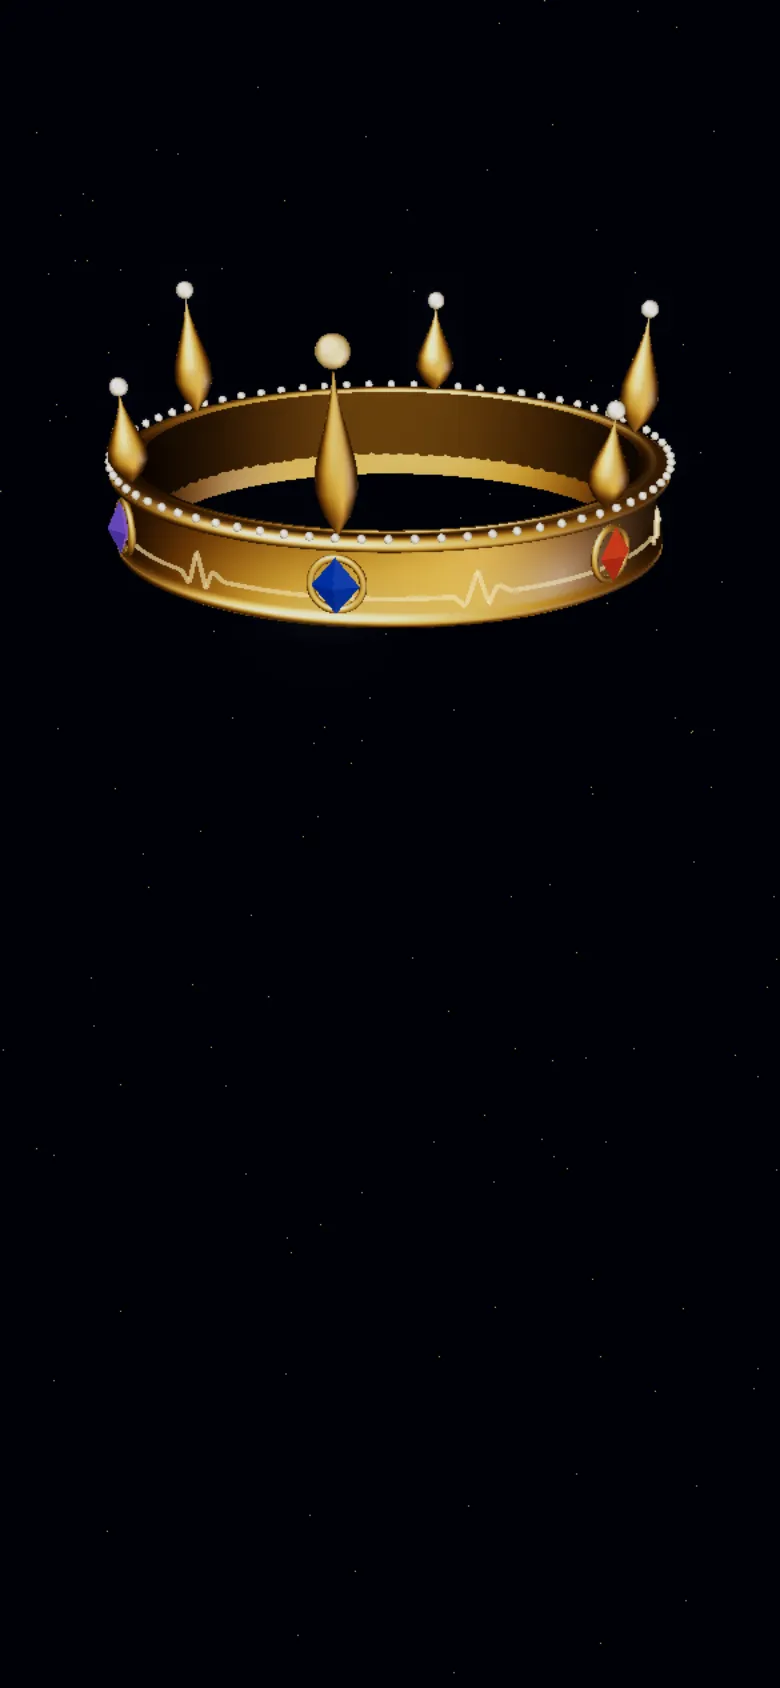
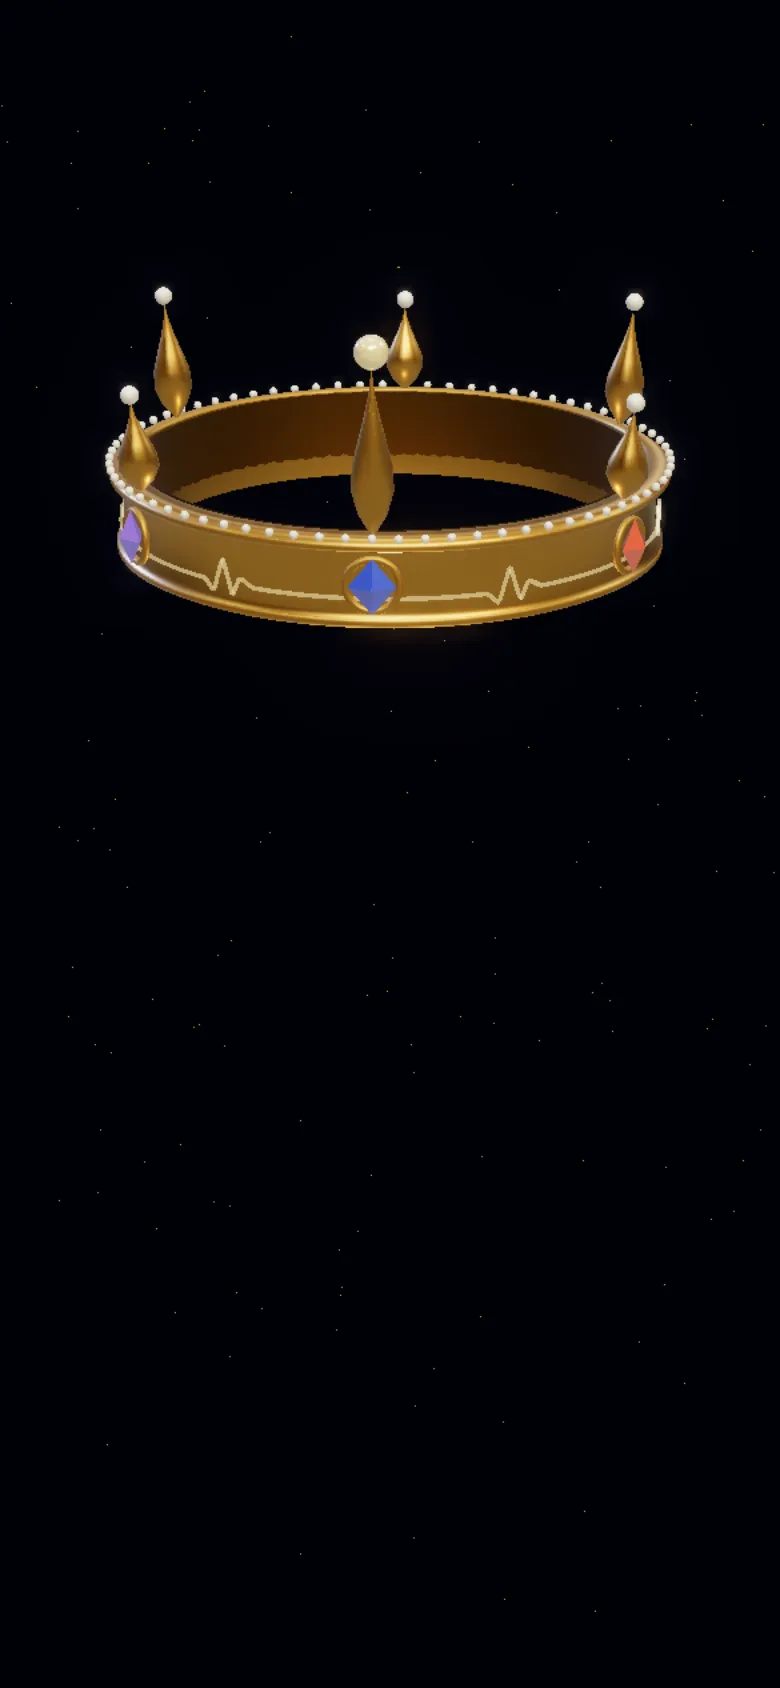
Crown story: original gold restored where graphics can be prepared in the background; every program prepared before the first frame; placeholders re-shot

Changed region(s): [[0.1231, 0.154, 0.8615, 0.4005]]

diff --git a/site/assets/js/crown-scene.js b/site/assets/js/crown-scene.js
@@ -2,6 +2,7 @@
    allows it, so preparing the graphics never freezes the page; otherwise on the page itself (crown-3d.js).
    It knows nothing about the page: each frame it is given the story state and returns where the jewel name tags go. */
 import * as THREE from '../vendor/three/three.module.min.js';
+import { RoomEnvironment } from '../vendor/three/addons/RoomEnvironment.js';
 import { MeshSurfaceSampler } from '../vendor/three/addons/MeshSurfaceSampler.js';
 import { EffectComposer } from '../vendor/three/addons/EffectComposer.js';
 import { RenderPass } from '../vendor/three/addons/RenderPass.js';
@@ -47,9 +48,12 @@ function sampleFigure(c, n) {
   return out;
 }
 
-export function buildScene(canvas, { small, narrow, dpr }) {
+export function buildScene(canvas, { small, narrow, dpr, hq: forceHq }) {
   const renderer = new THREE.WebGLRenderer({ canvas, antialias: true, powerPreference: 'high-performance' });
   renderer.setPixelRatio(Math.min(dpr || 1, small ? 1.5 : 2));
+  // Full-quality gold (live reflections) only where the graphics card can prepare its programs in the background;
+  // elsewhere the painted-sphere gold, which is cheap to prepare. Either way nothing freezes.
+  const hq = forceHq !== undefined ? forceHq : renderer.extensions.has('KHR_parallel_shader_compile');
   renderer.toneMapping = THREE.ACESFilmicToneMapping; renderer.toneMappingExposure = 0.92;
   renderer.outputColorSpace = THREE.SRGBColorSpace;
 
@@ -79,9 +83,16 @@ export function buildScene(canvas, { small, narrow, dpr }) {
   const goldCap = matcap([[0, '#f3cf7a'], [0.45, '#c8922f'], [0.78, '#6d4510'], [1, '#2a1904']], ['rgba(255,236,186,.75)', 'rgba(255,252,236,.95)', 'rgba(255,200,110,.35)'], 'rgba(120,150,255,.35)');
   const darkCap = matcap([[0, '#8a6220'], [0.6, '#4b3210'], [1, '#1c1204']], ['rgba(255,214,140,.25)', 'rgba(255,230,180,.3)', 'rgba(200,140,60,.15)'], null);
   const pearlCap = matcap([[0, '#fffaf0'], [0.55, '#e6dcc6'], [0.85, '#a89a80'], [1, '#5d5446']], ['rgba(255,255,255,.7)', 'rgba(255,255,255,.95)', 'rgba(255,230,210,.3)'], 'rgba(150,170,255,.3)');
-  const gold = new THREE.MeshMatcapMaterial({ matcap: goldCap, transparent: true });
-  const goldDark = new THREE.MeshMatcapMaterial({ matcap: darkCap, transparent: true, side: THREE.DoubleSide });
-  const pearlM = new THREE.MeshMatcapMaterial({ matcap: pearlCap, transparent: true });
+  let gold = new THREE.MeshMatcapMaterial({ matcap: goldCap, transparent: true });
+  let goldDark = new THREE.MeshMatcapMaterial({ matcap: darkCap, transparent: true, side: THREE.DoubleSide });
+  let pearlM = new THREE.MeshMatcapMaterial({ matcap: pearlCap, transparent: true });
+  if (hq) {
+    const pmrem = new THREE.PMREMGenerator(renderer);
+    scene.environment = pmrem.fromScene(new RoomEnvironment(), 0.04).texture; scene.environmentIntensity = 0.55;
+    gold = new THREE.MeshPhysicalMaterial({ color: '#c99a3e', metalness: 1, roughness: 0.3, clearcoat: 0.25, clearcoatRoughness: 0.35, transparent: true });
+    goldDark = new THREE.MeshPhysicalMaterial({ color: '#6e4e17', metalness: 1, roughness: 0.55, transparent: true, side: THREE.DoubleSide });
+    pearlM = new THREE.MeshPhysicalMaterial({ color: '#efe4cc', metalness: 0, roughness: 0.38, clearcoat: 0.4, transparent: true });
+  }
 
   // band: a lathe profile with raised rims
   const prof = [[0.93, -0.17], [0.99, -0.17], [1.03, -0.15], [1.03, -0.125], [0.995, -0.11], [1.005, 0.11], [1.05, 0.125], [1.05, 0.15], [1.02, 0.17], [0.95, 0.17], [0.93, -0.17]].map(([x, y]) => new THREE.Vector2(x, y));
@@ -99,7 +110,7 @@ export function buildScene(canvas, { small, narrow, dpr }) {
   const setG = new THREE.TorusGeometry(0.094, 0.014, 12, 40);
   const gems = APPS.map((app, i) => {
     const a = Math.PI / 2 + i * Math.PI / 3, g = new THREE.Group();
-    const m = new THREE.MeshStandardMaterial({ color: app[2], metalness: 0.1, roughness: 0.14, emissive: new THREE.Color(app[2]), emissiveIntensity: 0.1, flatShading: true, transparent: true });
+    const m = hq ? new THREE.MeshPhysicalMaterial({ color: app[2], metalness: 0.05, roughness: 0.06, clearcoat: 1, ior: 2.2, emissive: new THREE.Color(app[2]), emissiveIntensity: 0.1, flatShading: true, transparent: true }) : new THREE.MeshStandardMaterial({ color: app[2], metalness: 0.1, roughness: 0.14, emissive: new THREE.Color(app[2]), emissiveIntensity: 0.1, flatShading: true, transparent: true });
     const gem = new THREE.Mesh(gemG, m); gem.position.z = 0.02; g.add(gem);
     const set = new THREE.Mesh(setG, gold); g.add(set);
     g.position.set(Math.cos(a) * 1.03, 0.0, Math.sin(a) * 1.03); g.lookAt(Math.cos(a) * 3, 0.0, Math.sin(a) * 3);
@@ -114,7 +125,7 @@ export function buildScene(canvas, { small, narrow, dpr }) {
     const cone = new THREE.Mesh(new THREE.LatheGeometry([0, 0.05, 0.075, 0.07, 0.05, 0.028, 0.01, 0].map((r, k, arr) => new THREE.Vector2(r, k / (arr.length - 1) * h)), 32), gold);
     const holder = new THREE.Group(); holder.add(cone);
     holder.position.set(Math.cos(a) * 1.0, 0.16, Math.sin(a) * 1.0); holder.lookAt(0, 0.16, 0); holder.rotateX(-0.1);
-    const tip = new THREE.Mesh(new THREE.SphereGeometry(front ? 0.06 : 0.034, 24, 18), front ? new THREE.MeshMatcapMaterial({ matcap: pearlCap, color: '#ffe7b0', transparent: true }) : pearlM);
+    const tip = new THREE.Mesh(new THREE.SphereGeometry(front ? 0.06 : 0.034, 24, 18), front ? (hq ? new THREE.MeshPhysicalMaterial({ color: '#f6dfa4', metalness: 0.3, roughness: 0.12, clearcoat: 1, emissive: new THREE.Color('#e8c170'), emissiveIntensity: 0.25, transparent: true }) : new THREE.MeshMatcapMaterial({ matcap: pearlCap, color: '#ffe7b0', transparent: true })) : pearlM);
     tip.position.y = h + (front ? 0.05 : 0.025); holder.add(tip);
     crown.add(holder); points.push(holder);
   }
@@ -190,7 +201,7 @@ export function buildScene(canvas, { small, narrow, dpr }) {
   const composer = new EffectComposer(renderer);
   composer.addPass(new RenderPass(scene, camera));
   const bloom = new UnrealBloomPass(new THREE.Vector2(256, 256), small ? 0.22 : 0.3, 0.45, 0.93); composer.addPass(bloom);
-  composer.addPass(new OutputPass());
+  const outputPass = new OutputPass(); composer.addPass(outputPass);
 
   const tmp = new THREE.Vector3();
   let W = 1, H = 1, last = 0, spin = 0, figP = -1;
@@ -219,7 +230,7 @@ export function buildScene(canvas, { small, narrow, dpr }) {
     [gold, goldDark, pearlM, ...gems.map((g) => g.m), points[0].children[1].material].forEach((m) => { m.opacity = solid; m.depthWrite = solid > 0.98; });
     ecgMat.uniforms.uGlow.value = S.glow * solid; ecgMesh.visible = solid > 0.04;
     inner.intensity = 4 + S.glow * 4;
-    gems.forEach((g, i) => { g.m.emissiveIntensity = 0.35 + S.jewel * (0.35 + 0.2 * Math.sin(t * 2.4 + i)) + S.face * Math.max(0, 1 - Math.abs(S.who - i) * 1.6) * 1.4; });
+    gems.forEach((g, i) => { g.m.emissiveIntensity = (hq ? 0.1 : 0.35) + S.jewel * (0.35 + 0.2 * Math.sin(t * 2.4 + i)) + S.face * Math.max(0, 1 - Math.abs(S.who - i) * 1.6) * 1.4; });
     dust.rotation.y = t * 0.01;
     // jewel name tags: screen position and visibility for each
     const tags = gems.map((gm) => {
@@ -232,8 +243,17 @@ export function buildScene(canvas, { small, narrow, dpr }) {
   }
   // prepare the graphics programs, draw once, then make the remaining icons
   async function warm() {
-    if (renderer.compileAsync) { try { await renderer.compileAsync(scene, camera); } catch (e) { /* compiled on first frame instead */ } }
-    [2, 3, 4, 5].forEach((i, k) => setTimeout(() => figAt(i), 600 + k * 250));
+    // Prepare every program before the first frame, in the same form the first frame will use, so it never has to stop.
+    const quad = new THREE.PlaneGeometry(2, 2), oc = new THREE.OrthographicCamera(-1, 1, 1, -1, 0, 1);
+    const sceneOf = (mats) => { const q = new THREE.Scene(); mats.filter(Boolean).forEach((m) => { const me = new THREE.Mesh(quad, m); me.frustumCulled = false; q.add(me); }); return q; };
+    const prep = async (sc, cam, target) => { renderer.setRenderTarget(target); try { await renderer.compileAsync(sc, cam); } catch (e) { /* prepared on first use instead */ } };
+    outputPass._outputColorSpace = renderer.outputColorSpace; outputPass._toneMapping = renderer.toneMapping;
+    outputPass.material.defines = { SRGB_TRANSFER: '', ACES_FILMIC_TONE_MAPPING: '' }; outputPass.material.needsUpdate = true;
+    await prep(scene, camera, composer.readBuffer);
+    await prep(sceneOf([bloom.materialHighPassFilter, ...(bloom.separableBlurMaterials || []), bloom.compositeMaterial, bloom.blendMaterial]), oc, composer.readBuffer);
+    await prep(sceneOf([outputPass.material]), oc, null);
+    renderer.setRenderTarget(null);
+    [2, 3, 4, 5].forEach(figAt);   // all six icons before the first frame, so nothing pauses later
   }
-  return { resize, render, warm };
+  return { resize, render, warm, hq, programs: () => renderer.info.programs.length };
 }

diff --git a/site/assets/js/crown-3d.js b/site/assets/js/crown-3d.js
@@ -116,7 +116,8 @@ const whenIdle = () => new Promise((r) => (window.requestIdleCallback ? requestI
   const nums = () => { const o = {}; for (const k in S) if (typeof S[k] === 'number') o[k] = S[k]; return o; };   // plain numbers only (GSAP adds its own data)
   const snap = () => ({ S: nums(), t: (performance.now() - t0) / 1000, mx, my, tagVis: Math.max(0, 1 - Math.abs(tl.time() - tl.labels.s2 - 0.6) * 1.4) });
   const size = () => ({ W: root.clientWidth, H: innerHeight });
-  const opts = { small, narrow, dpr: devicePixelRatio || 1 };
+  const hqq = new URLSearchParams(location.search).get('hq');   // testing switch: ?hq=1 or ?hq=0
+  const opts = { small, narrow, dpr: devicePixelRatio || 1, hq: hqq === null ? undefined : hqq === '1' };
   const ready = () => root.classList.add('cx-ready');
   setTimeout(() => { if (!root.classList.contains('cx-ready')) still(); }, 15000);   // never leave the picture breathing for ever
   let engine = null, handedOver = false;
@@ -127,7 +128,7 @@ const whenIdle = () => new Promise((r) => (window.requestIdleCallback ? requestI
       let live = false, busy = true;
       const fail = () => { still(); wk.terminate(); engine = null; };
       wk.onmessage = ({ data }) => {
-        if (data.type === 'ready') { live = true; busy = false; ready(); }
+        if (data.type === 'ready') { live = true; busy = false; window.__cx.gfx = { hq: data.hq, programs: data.programs }; ready(); }
         else if (data.type === 'tags') { busy = false; placeTags(data.tags); }
         else if (data.type === 'fail') fail();
       };

diff --git a/site/assets/js/crown-worker.js b/site/assets/js/crown-worker.js
@@ -8,8 +8,8 @@ self.onmessage = async ({ data }) => {
       scene = buildScene(data.canvas, data.opts);
       scene.resize(data.W, data.H);
       await scene.warm();
-      scene.render(data.state);
-      self.postMessage({ type: 'ready' });
+      const before = scene.programs(); scene.render(data.state);
+      self.postMessage({ type: 'ready', hq: scene.hq, programs: [before, scene.programs()] });
     } catch (e) { self.postMessage({ type: 'fail', message: String(e && e.message || e) }); }
   } else if (!scene) {
     // not ready yet: tell the page this frame was skipped

diff --git a/site/sw.js b/site/sw.js
@@ -3,7 +3,7 @@
    static assets are stale-while-revalidate. Cross-origin requests
    (the Supabase API) are never cached. Bump VERSION on every release.
    /carecraft and /serein use content-hashed file names, so cached copies never go stale. */
-const VERSION = 'hca-v78';
+const VERSION = 'hca-v79';
 const CORE = [
   '/',
   '/privacy',
